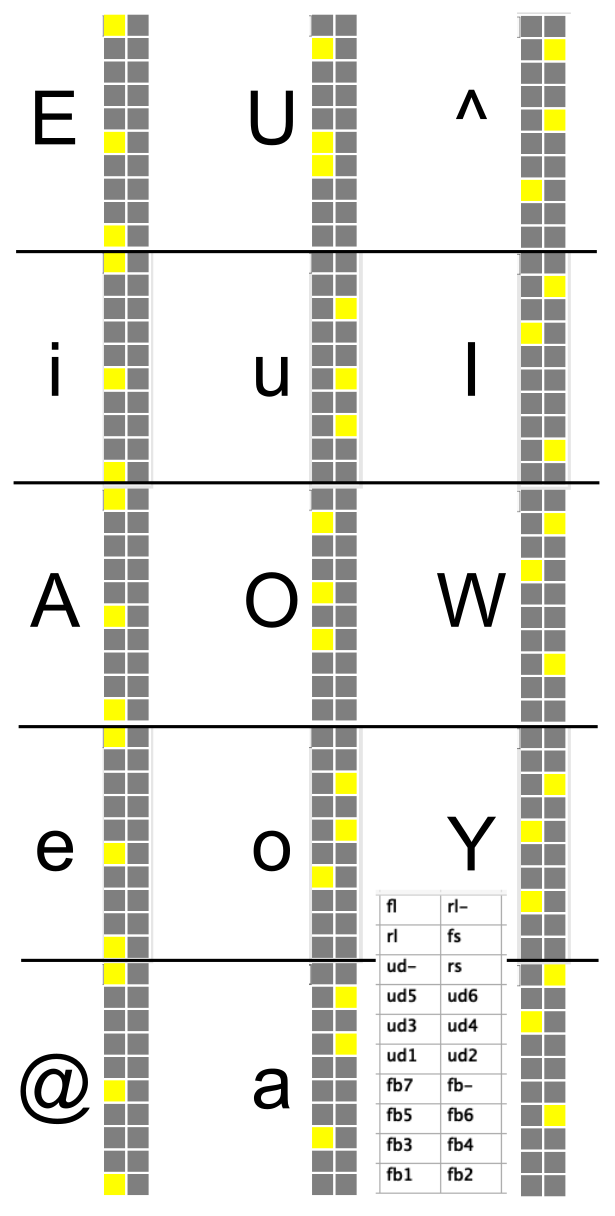
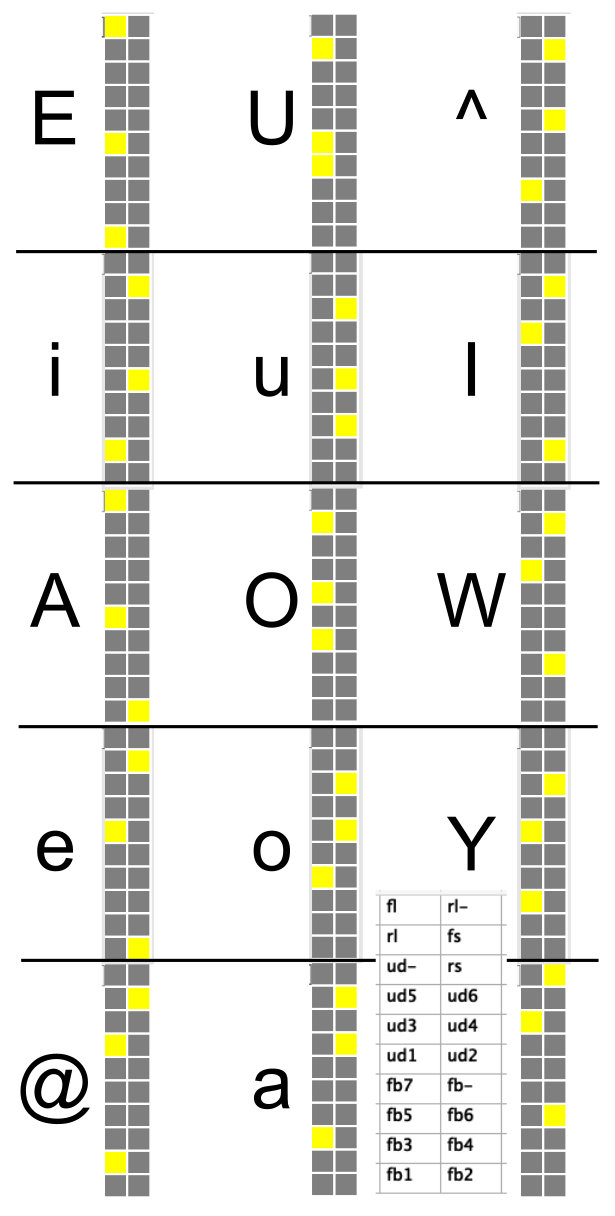
one example word in 9.1, and fix vowel pattern fig for ss

Changed region(s): [[0.1545, 0.0, 0.2472, 1.0]]

diff --git a/ch9/dyslex/README.md b/ch9/dyslex/README.md
@@ -24,7 +24,7 @@ You will see the activation flow through the network, and it should settle into 
 
 The `ConAbs` column shows whether this item is concrete (*Con*) or abstract (*Abs*), and the columns after that indicate what type of error the network makes: `Vis` = visual errors, `Sem` = semantic errors, `VisSem` = both, `Blend` = not a clearly pronounced word, `Other` = some other hard-to-categorize error.  Concrete words have more distinctive features, whereas abstract words have fewer, which impacts their relative susceptibility to lesions.
 
-> **Question 9.1:** Do you think the initial phonological activation is caused by the "direct" input via orthography or the "indirect" input via semantics? Did you see any cases where the initial phonological pattern is subsequently altered when the later input arrives? List the words where this happened.
+> **Question 9.1:** Do you think the initial phonological activation is caused by the "direct" input via orthography or the "indirect" input via semantics? Did you see any cases where the initial phonological pattern is subsequently altered when the later input arrives?  Provide an example word where this happened.
 
 # Reading with Complete Pathway Lesions
 
